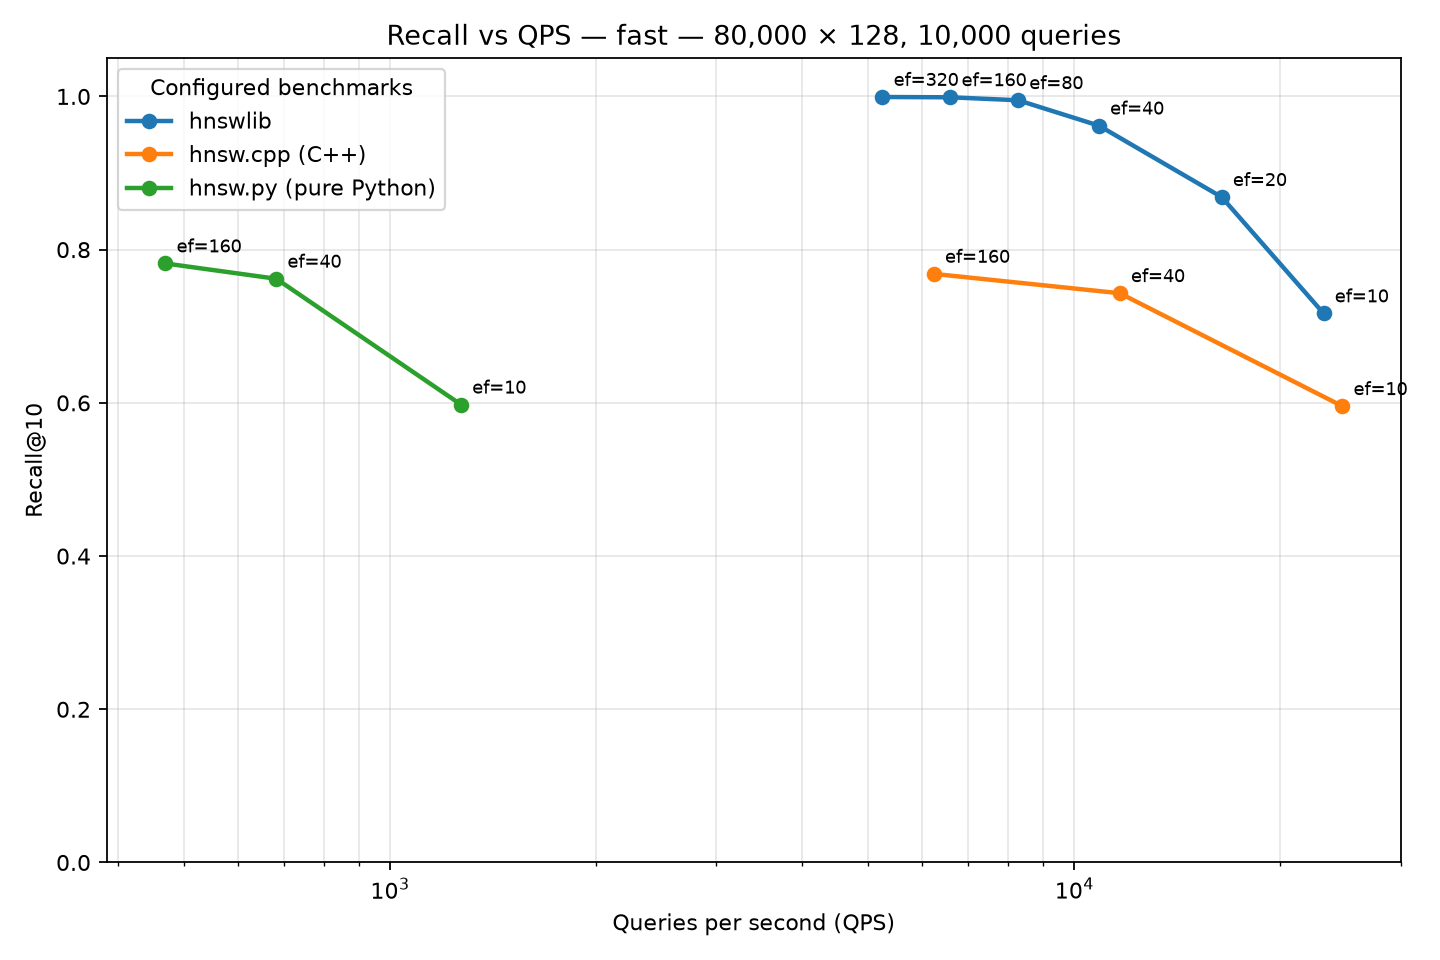
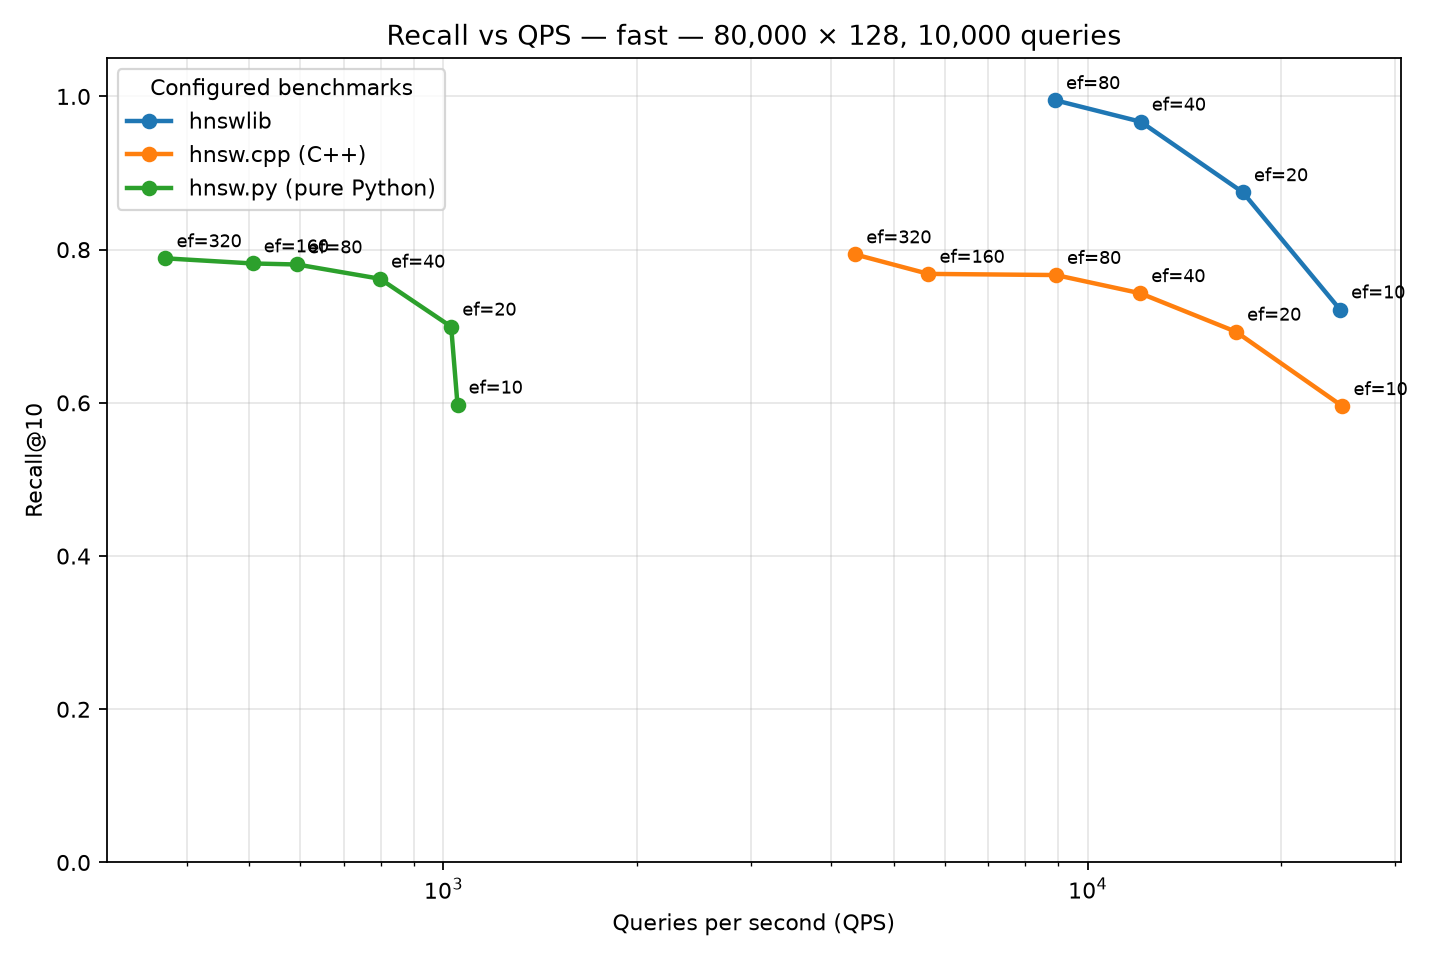
bench: auto-extend ef sweeps until target recall

diff --git a/scripts/bench/bench/runner.py b/scripts/bench/bench/runner.py
@@ -63,6 +63,27 @@ def _sweep_points(sweep: Any) -> list[dict[str, Any]]:
     return [dict(zip(keys, combo)) for combo in itertools.product(*values)]
 
 
+def _auto_ef_points(
+    sweep: Any,
+    target_recall: float | None,
+    max_ef: int,
+) -> tuple[list[dict[str, Any]], bool]:
+    points = _sweep_points(sweep)
+    auto_ef = (
+        target_recall is not None
+        and isinstance(sweep, Mapping)
+        and set(sweep) == {"ef"}
+    )
+    if not auto_ef:
+        return points, False
+
+    filtered = [point for point in points if int(point["ef"]) <= max_ef]
+    if filtered:
+        points = filtered
+    points.sort(key=lambda point: int(point["ef"]))
+    return points, True
+
+
 def _benchmark_metric(entry: BenchmarkEntry) -> str:
     return str(entry.params.get("space", "cosine"))
 
@@ -192,7 +213,18 @@ class BenchmarkRunner:
             )
 
             try:
-                for point in _sweep_points(params.get("sweep", {})):
+                points, auto_ef = _auto_ef_points(
+                    params.get("sweep", {}),
+                    self.config.metrics.target_recall,
+                    self.config.metrics.max_ef,
+                )
+                seen_ef = {int(point["ef"]) for point in points}
+                point_index = 0
+
+                while point_index < len(points):
+                    point = points[point_index]
+                    point_index += 1
+
                     system.set_query_params(index, point)
                     self._warmup(
                         system,
@@ -244,6 +276,24 @@ class BenchmarkRunner:
                         f"qps={point_result.qps:.1f} "
                         f"p50={point_result.p50_ms:.3f}ms"
                     )
+
+                    if not auto_ef:
+                        continue
+
+                    target = self.config.metrics.target_recall
+                    if target is not None and point_result.recall >= target:
+                        break
+
+                    current_ef = int(point["ef"])
+                    next_ef = max(current_ef + 1, current_ef * 2)
+                    if next_ef > self.config.metrics.max_ef or next_ef in seen_ef:
+                        continue
+
+                    seen_ef.add(next_ef)
+                    next_point = dict(point)
+                    next_point["ef"] = next_ef
+                    points.append(next_point)
+                    points.sort(key=lambda candidate: int(candidate["ef"]))
             finally:
                 if system.close is not None:
                     system.close(index)

diff --git a/scripts/bench/bench/presets.py b/scripts/bench/bench/presets.py
@@ -21,7 +21,13 @@ PRESETS = {
             "cluster_std": 0.05,
             "seed": 42,
         },
-        "metrics": {"k": 10, "reps": 5, "warmup": 100},
+        "metrics": {
+            "k": 10,
+            "reps": 5,
+            "warmup": 100,
+            "target_recall": 0.97,
+            "max_ef": 512,
+        },
         "output": {"dir": "results", "format": "png"},
         "benchmarks": "all",
     },
@@ -34,7 +40,13 @@ PRESETS = {
             "cluster_std": 0.05,
             "seed": 42,
         },
-        "metrics": {"k": 10, "reps": 1, "warmup": 20},
+        "metrics": {
+            "k": 10,
+            "reps": 1,
+            "warmup": 20,
+            "target_recall": 0.97,
+            "max_ef": 512,
+        },
         "output": {"dir": "results", "format": "png"},
         "benchmarks": "all",
     },

diff --git a/scripts/bench/bench/config.py b/scripts/bench/bench/config.py
@@ -144,6 +144,12 @@ class ConfigManager:
             )
         if metrics.k < 1:
             raise ValueError("metrics.k must be at least 1")
+        if metrics.max_ef < 1:
+            raise ValueError("metrics.max_ef must be at least 1")
+        if metrics.target_recall is not None and not (
+            0.0 <= metrics.target_recall <= 1.0
+        ):
+            raise ValueError("metrics.target_recall must be between 0 and 1")
 
         return RunConfig(
             preset=preset,

diff --git a/scripts/bench/bench/settings.py b/scripts/bench/bench/settings.py
@@ -18,6 +18,8 @@ class MetricsConfig:
     k: int
     reps: int
     warmup: int
+    target_recall: float | None = None
+    max_ef: int = 512
 
 
 @dataclass

diff --git a/scripts/bench/README.md b/scripts/bench/README.md
@@ -47,6 +47,8 @@ uv run vecbench run --preset fast
 uv run vecbench run --preset default --n 50000 --queries 500
 uv run vecbench run --preset default --ef 10,20,40,80
 uv run vecbench run --preset default --set dataset.n=20000
+uv run vecbench run --preset fast --set metrics.max_ef=1024
+uv run vecbench run --preset fast --set metrics.target_recall=None
 ```
 
 ## Presets
@@ -54,7 +56,7 @@ uv run vecbench run --preset default --set dataset.n=20000
 Presets are plain dictionaries in `bench/presets.py`:
 
 - `default` — 1M × 128, 10k queries, every registered system
-- `fast` — 100k × 128, 1k queries, every registered system
+- `fast` — 80k × 128, 10k queries, every registered system
 
 `"benchmarks": "all"` expands to one entry per registered system. The graph
 contains one line per configured entry.
@@ -80,6 +82,13 @@ report, metrics, or CLI are needed.
 - Exact ground truth is computed in chunked numpy using the same metric.
 - Each configured benchmark builds its own index, then sweeps its query
   parameters (`ef` for hnswlib, hnsw.cpp, and hnsw.py).
+- `ef` sweeps auto-extend by doubling until recall reaches
+  `metrics.target_recall` (0.97 in both presets) or `metrics.max_ef` (512 by
+  default). Seed values from the system's sweep are still used, and missing
+  powers of two between them are filled in.
+- Auto-extension only applies to a single-key `ef` sweep. It is disabled when
+  `metrics.target_recall` is `None`; the configured `ef` list is then used
+  as-is.
 - Sequential mode times one query at a time and reports p50/p95/p99 latency.
 - Batch mode calls the library's batch query path for throughput.
 - QPS is the median over `reps` runs.

diff --git a/README.md b/README.md
@@ -73,6 +73,8 @@ No changes to the runner, metrics, report, or CLI are required.
 - Exact ground truth is computed in chunked NumPy using the same metric.
 - Each configured benchmark builds its own index and sweeps its query
   parameters (`ef` for hnswlib, hnsw.cpp, and hnsw.py).
+- `ef` sweeps auto-extend until recall reaches `metrics.target_recall` or the
+  `metrics.max_ef` cap, so the sweep does not need to be specified manually.
 - Sequential mode times one query at a time and reports p50/p95/p99 latency.
 - Batch mode calls the library's batch query path for throughput.
 - Recall@k, QPS, and latency are recorded per sweep point; QPS is the median
